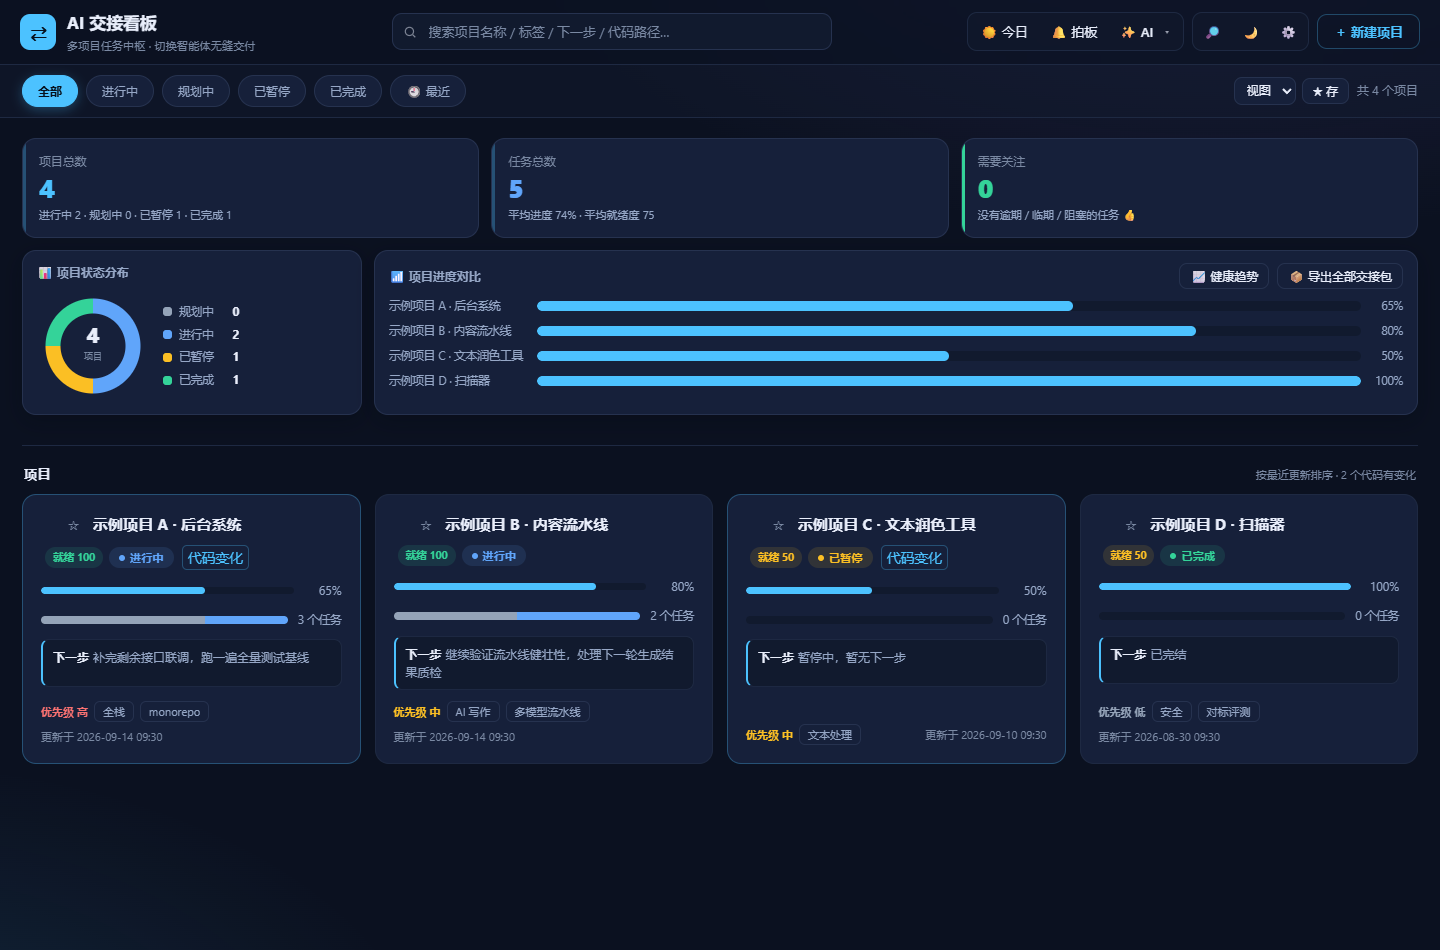
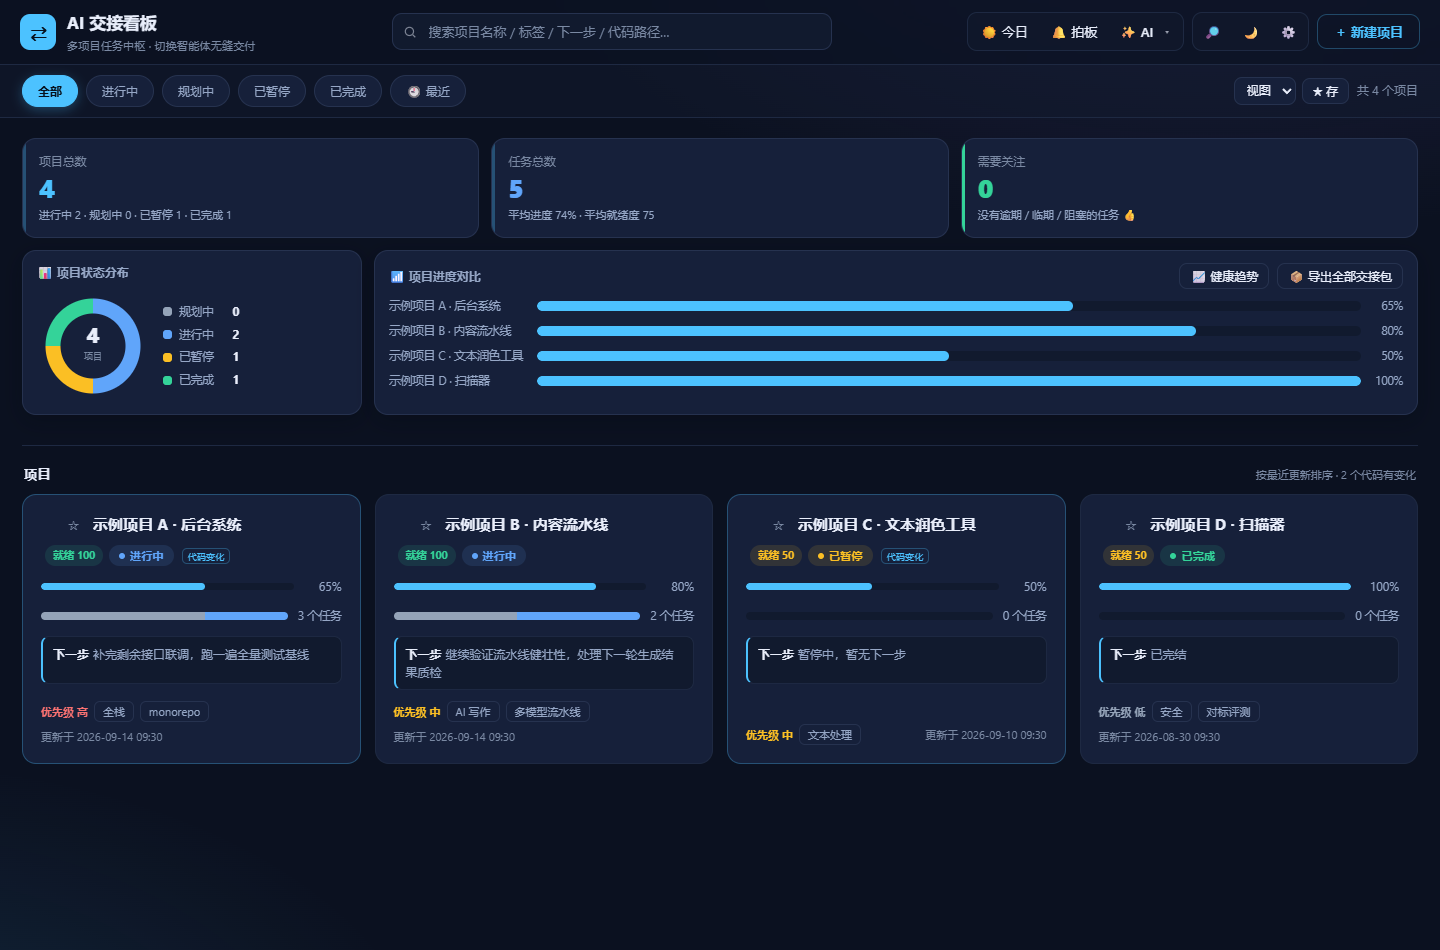
fix(ui): v1.7.4 UI 收口 - --mono 补定义/弹窗 .mbody 内滚/浅色 accent2 归并+CTA 补色/交接 h3 折行

diff --git a/web/style.css b/web/style.css
@@ -26,6 +26,11 @@
   --border-soft: #1e2942;
   --line: #1e2942;              /* JS 里在用，此前未定义（无形分隔线因此失效） */
 
+  /* —— 字体 —— */
+  /* .repo-watch .rw-head / .repo-flag 在用（v1.7.x 雷达加的，此前没定义：
+     前者等宽失效、后者 font 简写整体作废，9px 字号也被吞掉） */
+  --mono: Consolas, "Cascadia Mono", monospace;
+
   /* —— 文本 —— */
   --text: #e9eefb;
   --text-dim: #96a7c6;
@@ -93,7 +98,8 @@
   --text-faint: #65728e;
 
   --accent: #1679bd;
-  --accent2: #6f5fe6;
+  /* 与深色主题同源（单一强调色）：浅色这里漏改过，进度条会退回紫色渐变 */
+  --accent2: var(--accent);
   --purple: #7c5cf0;
   --green: #0d9e63;
   --orange: #c26a02;
@@ -102,7 +108,7 @@
   --gray: #64748b;
 
   --accent-soft: rgba(26, 134, 207, .10);
-  --accent2-soft: rgba(111, 95, 230, .10);
+  --accent2-soft: var(--accent-soft);
   --accent-line: rgba(22, 121, 189, .34);
   --ring: rgba(22, 121, 189, .5);
 
@@ -484,10 +490,15 @@ header {
   background: var(--bg-soft); border: 1px solid var(--border);
   border-radius: var(--r-xl); width: min(560px, 100%);
   box-shadow: var(--shadow); animation: pop .18s var(--ease);
+  /* 2026-10-18：滚动容器从遮罩挪进 .mbody（弹窗整框不超视口，内容在框内滚）。
+     此前遮罩上滚，sticky 页脚会被钉在遮罩「内容盒底」（视口底部再往上 50px 的遮罩内边距），
+     正文还会从按钮条下面透出来 —— 长弹窗的观感就是页脚浮在半空。 */
+  display: flex; flex-direction: column;
+  max-height: calc(100vh - 100px);
 }
 @keyframes pop { from { transform: scale(.96) translateY(-6px); opacity: 0; } to { transform: scale(1) translateY(0); opacity: 1; } }
-/* 遮罩才是滚动容器（.modal-mask 有 overflow-y），长弹窗里标题和按钮条会滚出视野，
-   所以两头钉住；背景必须给实色，否则内容会从下面透过来 */
+/* 标题与按钮条是弹窗框的固定两端（sticky 声明保留：静态契约钉着它们，且在新布局下无害）；
+   背景必须给实色，否则内容会从下面透过来 */
 .modal .mhead {
   display: flex; align-items: center; justify-content: space-between;
   padding: 16px 20px; border-bottom: 1px solid var(--border);
@@ -495,7 +506,7 @@ header {
   background: var(--bg-soft); border-radius: var(--r-xl) var(--r-xl) 0 0;
 }
 .modal .mhead h2 { font-size: 15px; letter-spacing: .01em; }
-.modal .mbody { padding: 18px 20px; display: flex; flex-direction: column; gap: 14px; }
+.modal .mbody { padding: 18px 20px; display: flex; flex-direction: column; gap: 14px; overflow-y: auto; min-height: 0; }
 .modal .mfoot {
   padding: 14px 20px; border-top: 1px solid var(--border); display: flex; justify-content: flex-end; gap: 10px;
   position: sticky; bottom: 0; z-index: 2;
@@ -1309,6 +1320,9 @@ header { padding: 10px 20px; gap: 12px; }
   background: var(--accent-soft);
   border-color: var(--accent);
 }
+/* 浅色主题：`.btn.primary` 的白字规则（pass 1）特异性压过上面的“退后一步”样式，
+   不管的话「＋ 新建项目」就是白字 + 透明底（实测对比度 ≈1.1:1，几乎看不见） */
+:root[data-theme="light"] .header-actions .header-cta { color: var(--accent); }
 .pcard .next-action { min-height: 48px; }
 .pcard .card-foot { min-height: 18px; }
 .handoff-box .btns .btn:not(:first-child) {

diff --git a/web/js-core.js b/web/js-core.js
@@ -79,12 +79,18 @@ function closeModal(id) {
   document.getElementById(id).querySelector(".modal").style.animation = "none";
 }
 
+// 长弹窗的滚动容器是 .mbody（弹窗框定高、内容在框内滚，见 style.css 的 .modal）。
+// 滚动记忆记的必须是它：以前记的是遮罩的 scrollTop，而遮罩只在旧布局下才滚。
+function modalScroller(el) {
+  return el.querySelector(".mbody") || el;
+}
+
 // 关闭只留这一条路径：右上角 ✕、底部「完成」、点遮罩、按 Esc 都走它。
 // 以前遮罩与 Esc 各自直接摘 .show，跳过了上面那个动画复位（于是弹窗只有第一次
 // 打开有 pop 动画），Esc 也既不关右侧的 AI 监管面板、也不清已解析出的待确认操作。
 function closeOneModal(id) {
   const m = document.getElementById(id);
-  modalScroll.set(id, m.scrollTop);          // 长弹窗重开时回到上次看到的位置
+  modalScroll.set(id, modalScroller(m).scrollTop);   // 长弹窗重开时回到上次看到的位置
   closeModal(id);
   if (id === "ai-cmd-modal") {
     // 关掉指令窗口就等于放弃这一批操作，否则下次打开时「确认执行」还指着上次的解析结果
@@ -152,7 +158,7 @@ function openModal(id) {
   if (box) box.style.animation = "";
   if (!m.classList.contains("show")) modalOpener = document.activeElement;
   m.classList.add("show");
-  m.scrollTop = modalScroll.get(id) || 0;
+  modalScroller(m).scrollTop = modalScroll.get(id) || 0;
   focusInto(m);
 }
 

diff --git a/web/index.html b/web/index.html
@@ -201,8 +201,8 @@
         </div>
 
         <div class="panel">
-          <h3 style="justify-content:space-between">🤝 交接说明（给智能体）
-            <span style="display:flex;align-items:center;gap:8px;text-transform:none;letter-spacing:0">
+          <h3 style="justify-content:space-between;flex-wrap:wrap;row-gap:2px">🤝 交接说明（给智能体）
+            <span style="display:flex;align-items:center;gap:8px;text-transform:none;letter-spacing:0;margin-left:auto">
               <span style="font-size:11px;font-weight:400;color:var(--text-faint)">Markdown 渲染</span>
               <button class="btn small" data-act="openAIHandoff">✨ AI 生成</button>
             </span>

diff --git a/tests/test_frontend_e2e.py b/tests/test_frontend_e2e.py
@@ -1256,22 +1256,37 @@ def test_long_modal_reopens_at_its_previous_scroll(ui):
     page.click("header [data-act='openAISettings']")
     page.wait_for_selector("#ai-settings-modal.show", timeout=10000)
     mask = page.locator("#ai-settings-modal")
-    page.evaluate("() => { const m = document.getElementById('ai-settings-modal');"
-                  "m.scrollTop = m.scrollHeight; }")
-    scrolled = mask.evaluate("e => e.scrollTop")
+    # 2026-10-18 起滚动容器是 .mbody（弹窗框定高、内容在框内滚）。此前遮罩上滚，
+    # sticky 页脚会被钉在遮罩内容盒底（视口底部再往上 50px），正文从按钮条下面透出来。
+    body = page.locator("#ai-settings-modal .mbody")
+    page.evaluate("() => { const b = document.querySelector('#ai-settings-modal .mbody');"
+                  "b.scrollTop = b.scrollHeight; }")
+    scrolled = body.evaluate("e => e.scrollTop")
     assert scrolled > 40, f"这个弹窗不够长，测不出滚动记忆（scrollTop={scrolled}）"
 
     page.keyboard.press("Escape")
     page.wait_for_selector("#ai-settings-modal", state="hidden", timeout=10000)
     page.click("header [data-act='openAISettings']")
     page.wait_for_selector("#ai-settings-modal.show", timeout=10000)
-    assert mask.evaluate("e => e.scrollTop") >= scrolled - 5, "重开回到了顶部，滚动位置没记住"
+    assert body.evaluate("e => e.scrollTop") >= scrolled - 5, "重开回到了顶部，滚动位置没记住"
 
-    # 钉住的标题在滚到底时仍然在视口里
-    head_top = page.locator("#ai-settings-modal .mhead").bounding_box()["y"]
+    # 钉住的标题在滚到底时仍然在视口里，且按钮条贴在弹窗框底部、整框不出视口
+    # 先等 pop 动画收场：动画的 scale/translate 会让这一刻的包围盒偏 4px 左右（竞态）
+    page.wait_for_function(
+        "() => { const m = document.querySelector('#ai-settings-modal .modal');"
+        " return m && m.getAnimations().length === 0; }",
+        timeout=5000)
     mask_box = mask.bounding_box()
+    modal_box = page.locator("#ai-settings-modal .modal").bounding_box()
+    head_top = page.locator("#ai-settings-modal .mhead").bounding_box()["y"]
+    foot_box = page.locator("#ai-settings-modal .mfoot").bounding_box()
     assert head_top >= mask_box["y"] - 1 and head_top <= mask_box["y"] + 60, \
         f"标题滚出视野了（head y={head_top}, mask y={mask_box['y']}）"
+    vh = page.evaluate("window.innerHeight")
+    assert modal_box["y"] + modal_box["height"] <= vh + 1, \
+        f"弹窗整框超出视口（bottom={modal_box['y'] + modal_box['height']}, vh={vh}）"
+    assert abs(foot_box["y"] + foot_box["height"] - (modal_box["y"] + modal_box["height"])) <= 2, \
+        "按钮条没贴在弹窗框底部（页脚又在半空飘了）"
 
 
 # ---------------- 2026-10-06 竞品吸取轮：验收标准 / 待拍板 / 记忆时效 / journal 折叠 ----------------

diff --git a/app/version.py b/app/version.py
@@ -69,7 +69,21 @@ from pathlib import Path
 # ⑤ 备份带上 repo_watch.json、恢复随之回滚（老备份没有/坏掉 = 不动现状，与 memories
 #    同语义；导出/导入有意不带 —— 跨机后 repo_path 指不到同一仓库，与 _client_refs 同理）。
 #    同轮清掉 main.py 两处死代码（_ABBR / APP_NAME）。恢复链路 3 条用例 + 3 条探针（→64）。
-__version__ = "1.7.3"
+# 1.7.4（2026-10-18）：桌面端 UI 收口轮（外部审计发现，五处缺陷/残留逐条修复）。
+# ① --mono 从未定义：.repo-watch .rw-head 的 font-family 整条失效、.repo-flag 的
+#    font: 9px var(--mono) 简写整条作废（字体停在继承值）——「代码变化」标记一直没按
+#    设计渲染，还把卡片中段的行高悄悄撑高了约 4px；现已定义 --mono。
+# ② 弹窗滚动架构：遮罩滚动时 sticky 页脚被钉在遮罩内容盒底、正文从按钮条下透出。
+#    .modal 改 flex 列 + max-height: calc(100vh - 100px) 定框，.mbody 成为滚动容器
+#    （mhead/mfoot 的 sticky 声明保留但惰性），JS modalScroll 保存/恢复改指 .mbody。
+# ③ 浅色主题 --accent2 未随「单一强调色」归并（1.6.0 只改了深色）：进度条/统计数字/
+#    下一步底色残留紫调；现别名归并到 --accent / --accent-soft。
+# ④ 浅色顶栏「新建项目」白字白底（对比度约 1.1:1，等同看不见）：补 color: var(--accent)。
+# ⑤ 交接说明 h3 折行出孤字（nowrap 对 CJK 无效）：flex-wrap: wrap + row-gap + 右侧
+#    工具行 margin-left: auto。
+# 新增 1 条静态钉子（.mbody 是滚动容器）与 1 条 E2E 重写（弹窗几何：页脚贴框底、
+# 整框不出视口）；README 总览深浅两张截图随之重拍。
+__version__ = "1.7.4"
 
 ROOT = Path(__file__).resolve().parent.parent
 

diff --git a/tests/test_frontend.py b/tests/test_frontend.py
@@ -297,6 +297,16 @@ def test_modal_head_and_foot_are_sticky():
         assert "background: var(--bg-soft)" in rule, f"{sel} 透明背景会让滚过的内容透出来"
 
 
+def test_modal_body_is_the_scroll_container():
+    """2026-10-18：滚动容器从遮罩挪进 .mbody —— 遮罩上滚时 sticky 页脚会被钉在
+    遮罩「内容盒底」（视口底部再往上 50px 的遮罩内边距），正文从按钮条下面透出来，
+    长弹窗的观感就是页脚浮在半空。弹窗整框定高 + 内容在框内滚才治本。"""
+    modal = re.search(r"\.modal \{[^}]*\}", HTML).group(0)
+    assert "max-height: calc(100vh - 100px)" in modal, "弹窗没框定高，长内容会整页滚"
+    mbody = re.search(r"\.modal \.mbody \{[^}]*\}", HTML).group(0)
+    assert "overflow-y: auto" in mbody and "min-height: 0" in mbody, ".mbody 不是滚动容器"
+
+
 def test_focus_is_trapped_and_returned():
     assert "function trapTab(" in HTML and "trapTab(e)" in HTML
     assert "function focusInto(" in HTML and "backToOpener()" in HTML, "缺焦点进出管理"

diff --git a/README.md b/README.md
@@ -2,7 +2,7 @@
 
 多项目任务中枢桌面应用，专为「切换 AI 智能体做项目」设计：每个项目带交接说明与下一步行动，一键复制交接摘要，新智能体接手零成本。内置 **AI 自我监管**（多 LLM 端点自动分析健康度、生成建议、维护任务），并有 **可视化仪表盘** 与 **一键完整交接包** 提升交付效率。
 
-> 当前版本 **v1.7.3**。`app/version.py` 是唯一事实来源 —— 界面版本条、`/api/health`、
+> 当前版本 **v1.7.4**。`app/version.py` 是唯一事实来源 —— 界面版本条、`/api/health`、
 > MCP `serverInfo`、exe 的 PE 版本资源都读它，`tests/test_docs.py` 会核对本文档与 AGENTS.md 写的是同一个数。
 
 ## 界面
